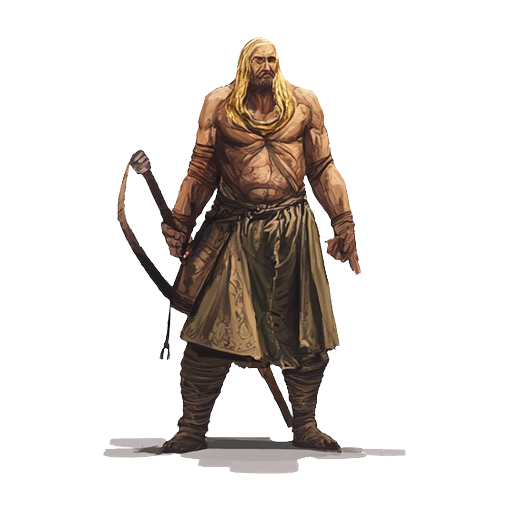
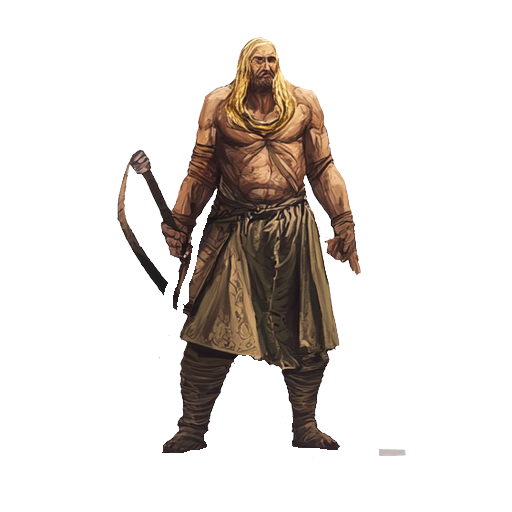
image updates

Changed region(s): [[0.1875, 0.6875, 0.75, 0.9375], [0.3125, 0.4062, 0.4062, 0.7188]]

diff --git a/internal/game/actors/warrior.go b/internal/game/actors/warrior.go
@@ -7,22 +7,22 @@ import (
 	"github.com/google/uuid"
 )
 
-func Wanderer() game.Class {
+func Warrior() game.Class {
 	class := game.NewClass()
-	class.ID = uuid.MustParse("01a00690-8b87-7633-a3c0-4337811c4eea")
-	class.Name = "Wanderer"
-	class.SpriteURL = "/actors/394_64128.png"
+	class.ID = uuid.MustParse("01a02548-3fa0-70c8-8006-60225fb8addc")
+	class.Name = "Warrior"
+	class.SpriteURL = "/actors/134_64128.png"
 	class.Affinities = game.Set[game.Affinity]{
 		game.Physical: {},
 	}
 	class.Stats = map[game.Stat]float64{
-		game.Health:         80,
-		game.Speed:          100,
-		game.Melee:          100,
-		game.Ranged:         100,
-		game.Special:        100,
-		game.MartialDefense: 70,
-		game.SpecialDefense: 90,
+		game.Health:         85,
+		game.Speed:          115,
+		game.Melee:          130,
+		game.Ranged:         70,
+		game.Special:        50,
+		game.MartialDefense: 80,
+		game.SpecialDefense: 70,
 		game.Accuracy:       1,
 		game.Evasion:        1,
 
@@ -36,12 +36,11 @@ func Wanderer() game.Class {
 	class.Options = game.ClassOptions{
 		Items: []game.Item{},
 		Weapons: []game.Weapon{
-			weapons.Dagger(),
-			weapons.FireTome(),
 			weapons.Greatsword(),
 			weapons.HandCrossbow(),
 			weapons.RoundShield(),
 			weapons.ShortBow(),
+			weapons.Spear(),
 		},
 	}
 

diff --git a/internal/game/actors/actors.go b/internal/game/actors/actors.go
@@ -23,6 +23,7 @@ var All = []game.Class{
 	Bloodknight(),
 	Inquisitor(),
 	Wanderer(),
+	Warrior(),
 }
 
 func HydrateActorClass(id uuid.UUID) (game.Class, bool) {
